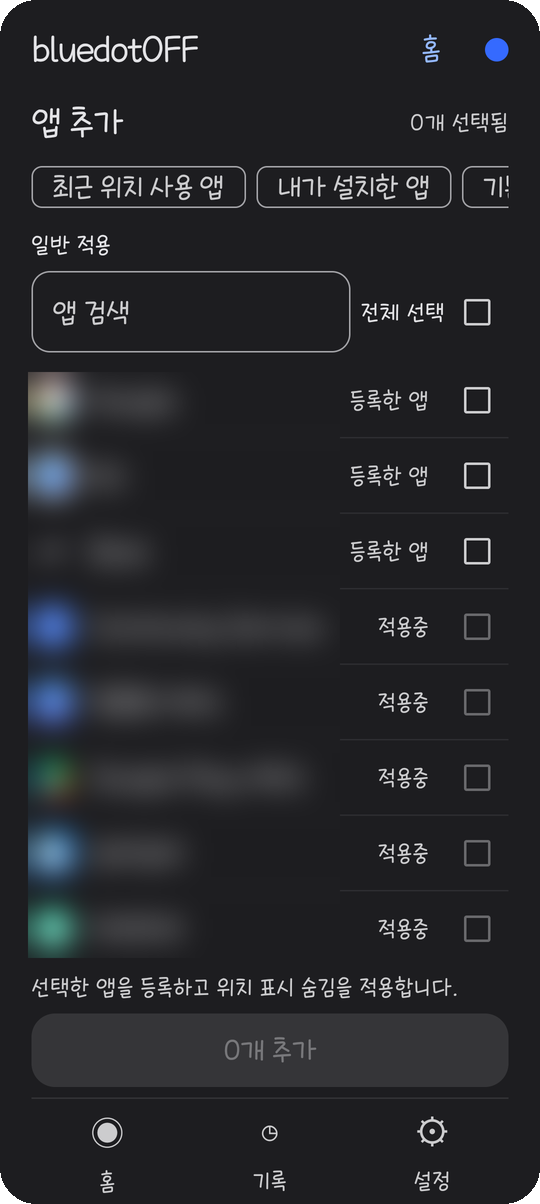
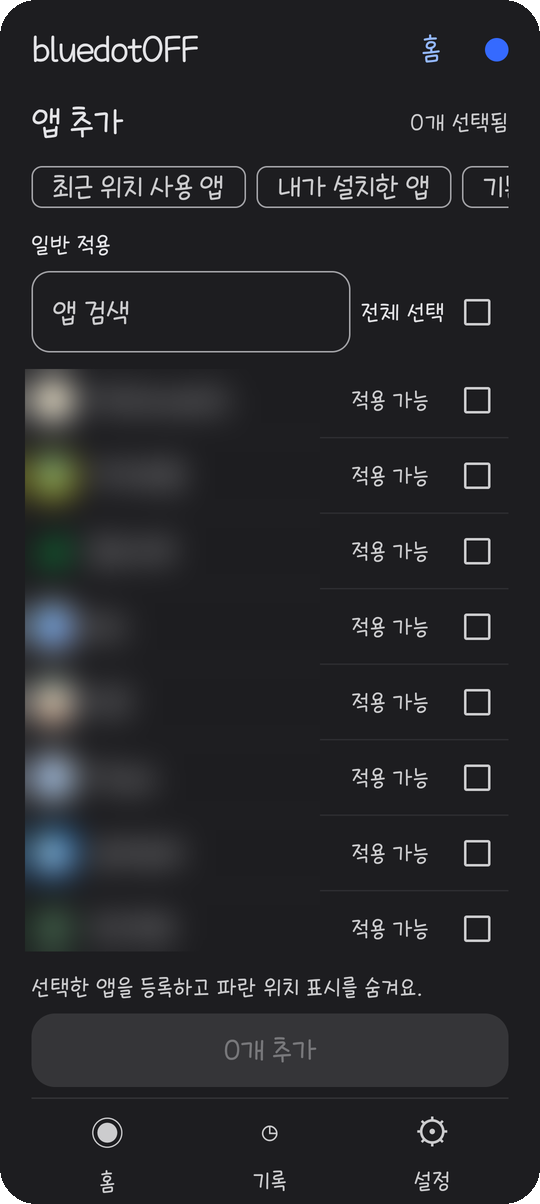
Scope check spinner; README screenshots for 1.0.1

diff --git a/app/src/main/java/app/bluedotoff/ScopeDialogs.kt b/app/src/main/java/app/bluedotoff/ScopeDialogs.kt
@@ -72,7 +72,10 @@ object ScopeDialogs {
                 ScopeDetail(scope)
                 when {
                     error.isNotBlank()->Copy(error)
-                    targets==null->Copy("등록 앱의 적용 범위를 확인하고 있어요.",small=true)
+                    // A spinner shows the read-only check of registered apps is still running.
+                    targets==null->Row(verticalAlignment=Alignment.CenterVertically,horizontalArrangement=Arrangement.spacedBy(12.dp)){
+                        CircularProgressIndicator(Modifier.size(20.dp),strokeWidth=2.dp);Copy("등록 앱의 적용 범위를 확인하고 있어요.",small=true)
+                    }
                     targets!!.isEmpty()->Copy("원복할 등록 앱이 없어요. 앱의 표시 설정은 그대로 유지해요.",small=true)
                     else->{
                         Copy("등록한 앱 중 ${targets!!.size}개가 새 범위에서 빠져서 원래 상태로 돌아가요.")

diff --git a/app/src/test/java/app/bluedotoff/ScopeDialogsTest.kt b/app/src/test/java/app/bluedotoff/ScopeDialogsTest.kt
@@ -88,6 +88,7 @@ class ScopeDialogsTest {
         dialog=ScopeDialogs.lowering(controller.get(),ApplicationScope.NORMAL,tint=0f,load={result=it}){confirmed=true}
         compose.onNodeWithText("범위를 낮출까요?").assertIsDisplayed()
         compose.onNodeWithText("등록 앱의 적용 범위를 확인하고 있어요.").assertIsDisplayed()
+        compose.onNode(hasProgressBarRangeInfo(androidx.compose.ui.semantics.ProgressBarRangeInfo.Indeterminate)).assertExists()
         compose.onNodeWithText("이 범위 사용").assertIsNotEnabled()
         Assert.assertFalse(confirmed)
         compose.runOnIdle{result!!(listOf("전화" to "demo.phone"),"")}

diff --git a/README.en.md b/README.en.md
@@ -19,7 +19,7 @@ Location permissions and location history stay as they are. bluedotOFF changes a
 | Home | Add apps | Settings |
 |:---:|:---:|:---:|
 | <img src="docs/screenshots/home.png" width="240" alt="Home screen"> | <img src="docs/screenshots/add-apps.png" width="240" alt="Add apps screen"> | <img src="docs/screenshots/settings.png" width="240" alt="Settings screen"> |
-| Applied apps and apps to reapply at a glance | Pick apps to hide and apply at once | Scope, automatic management, reapply notifications |
+| Applied apps and apps to reapply at a glance | Pick apps to hide and apply at once | Scope, automatic management, reapply notifications, apps left hidden |
 
 <sub>Screenshots from a real device (Galaxy Z Fold7), in Korean. Installed app names and icons are blurred. The app shows English on any non-Korean phone.</sub>
 
